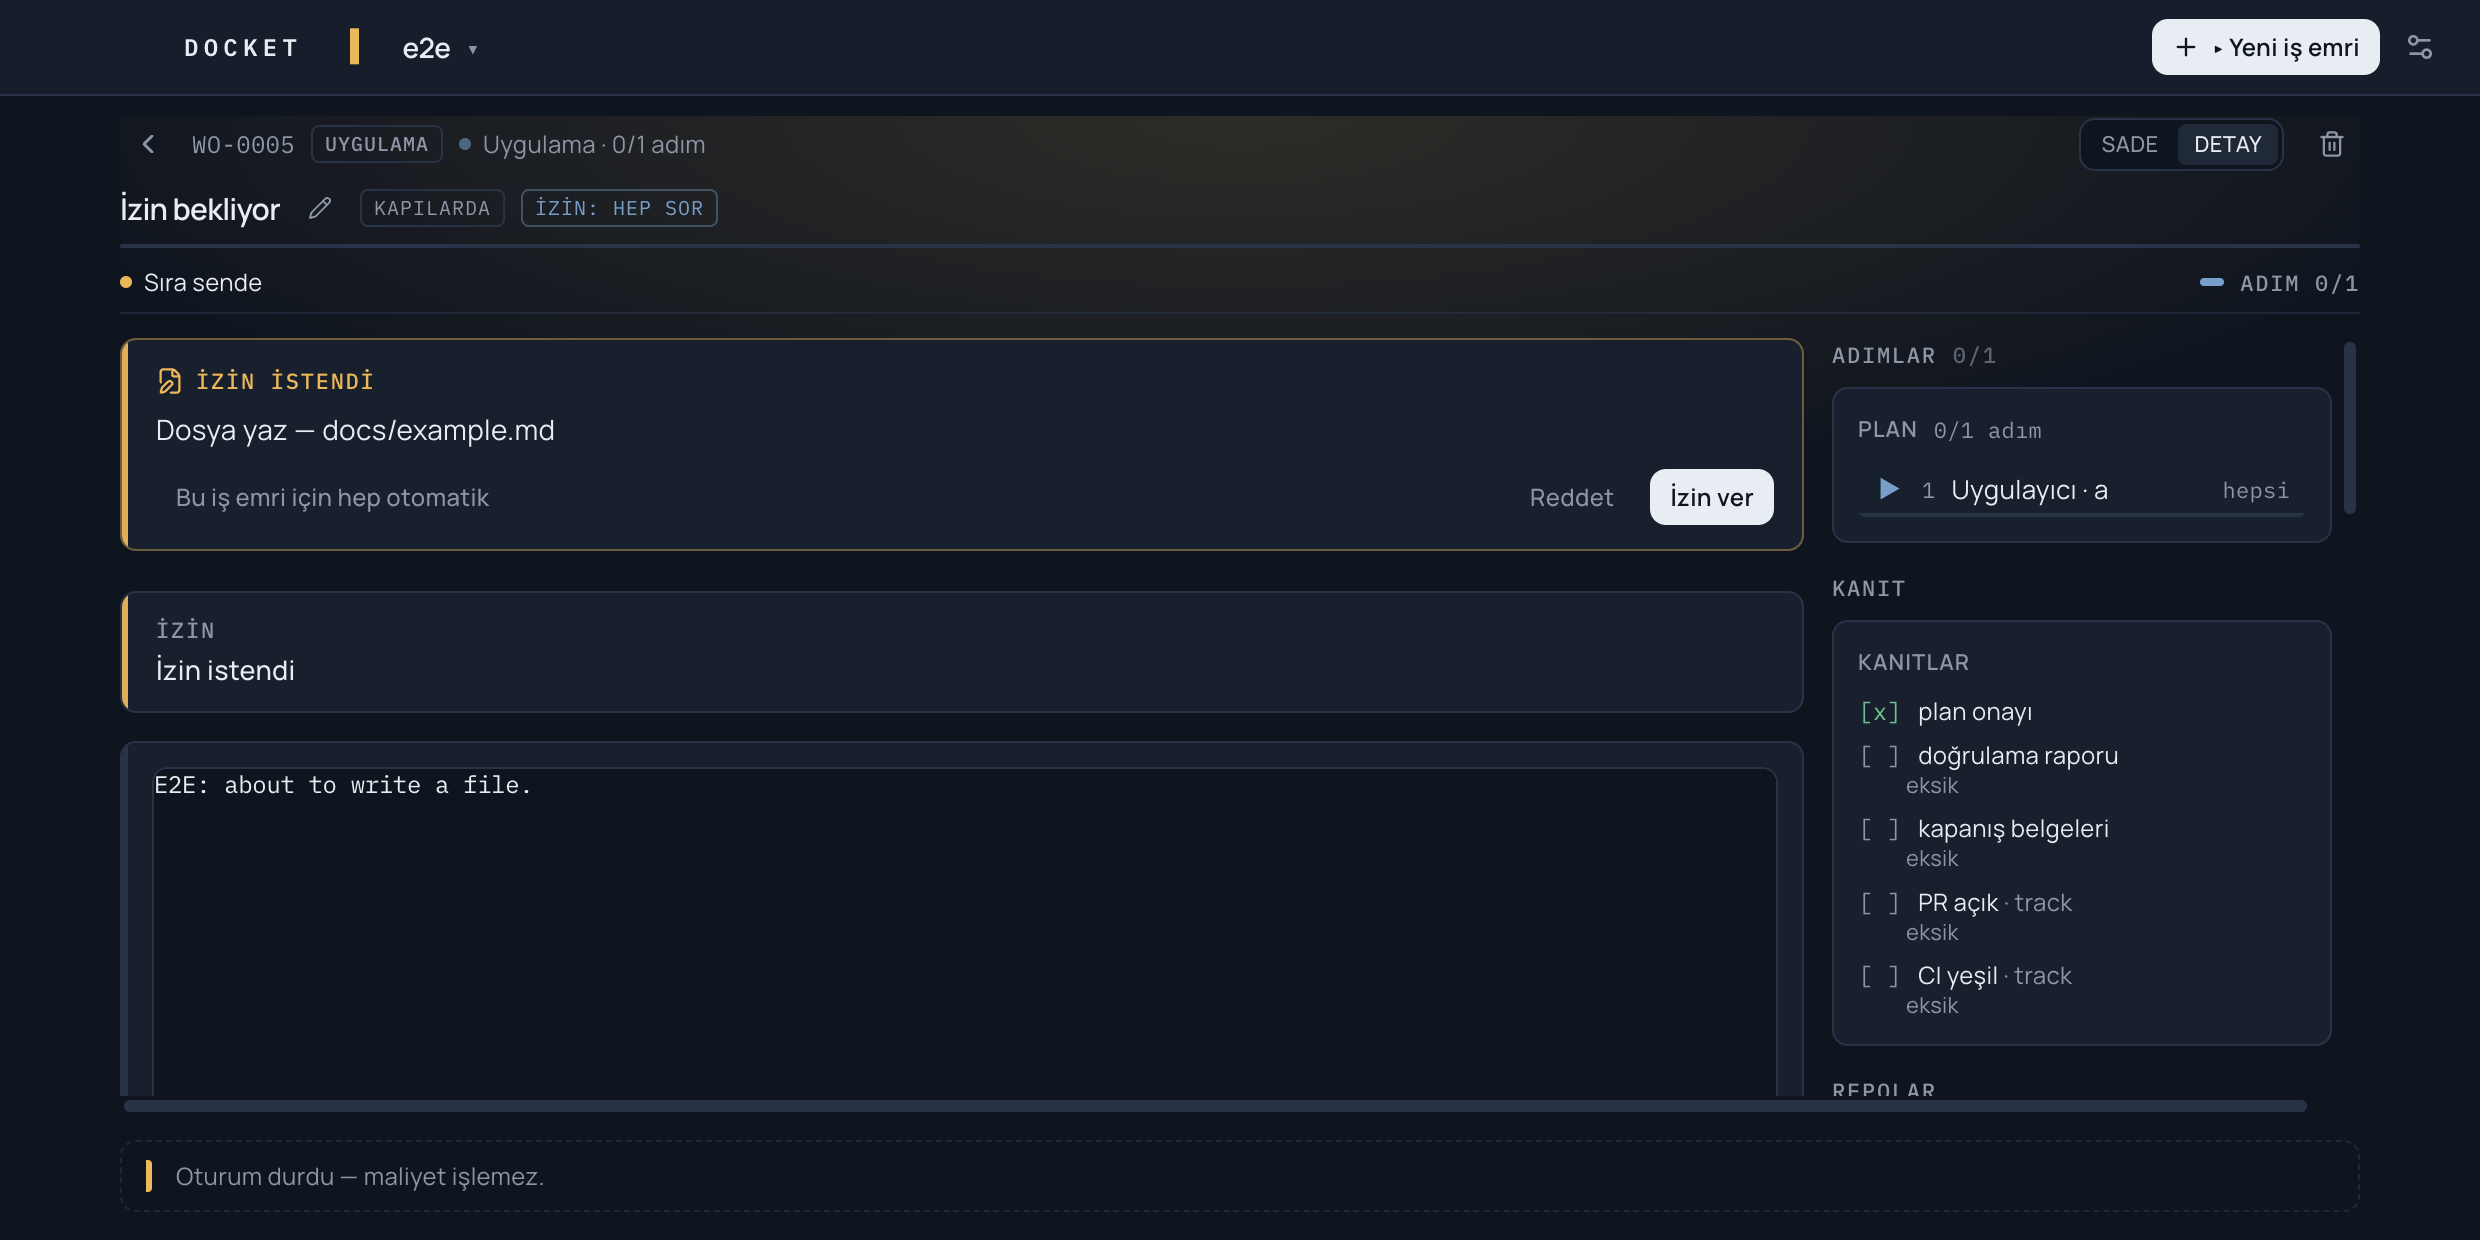
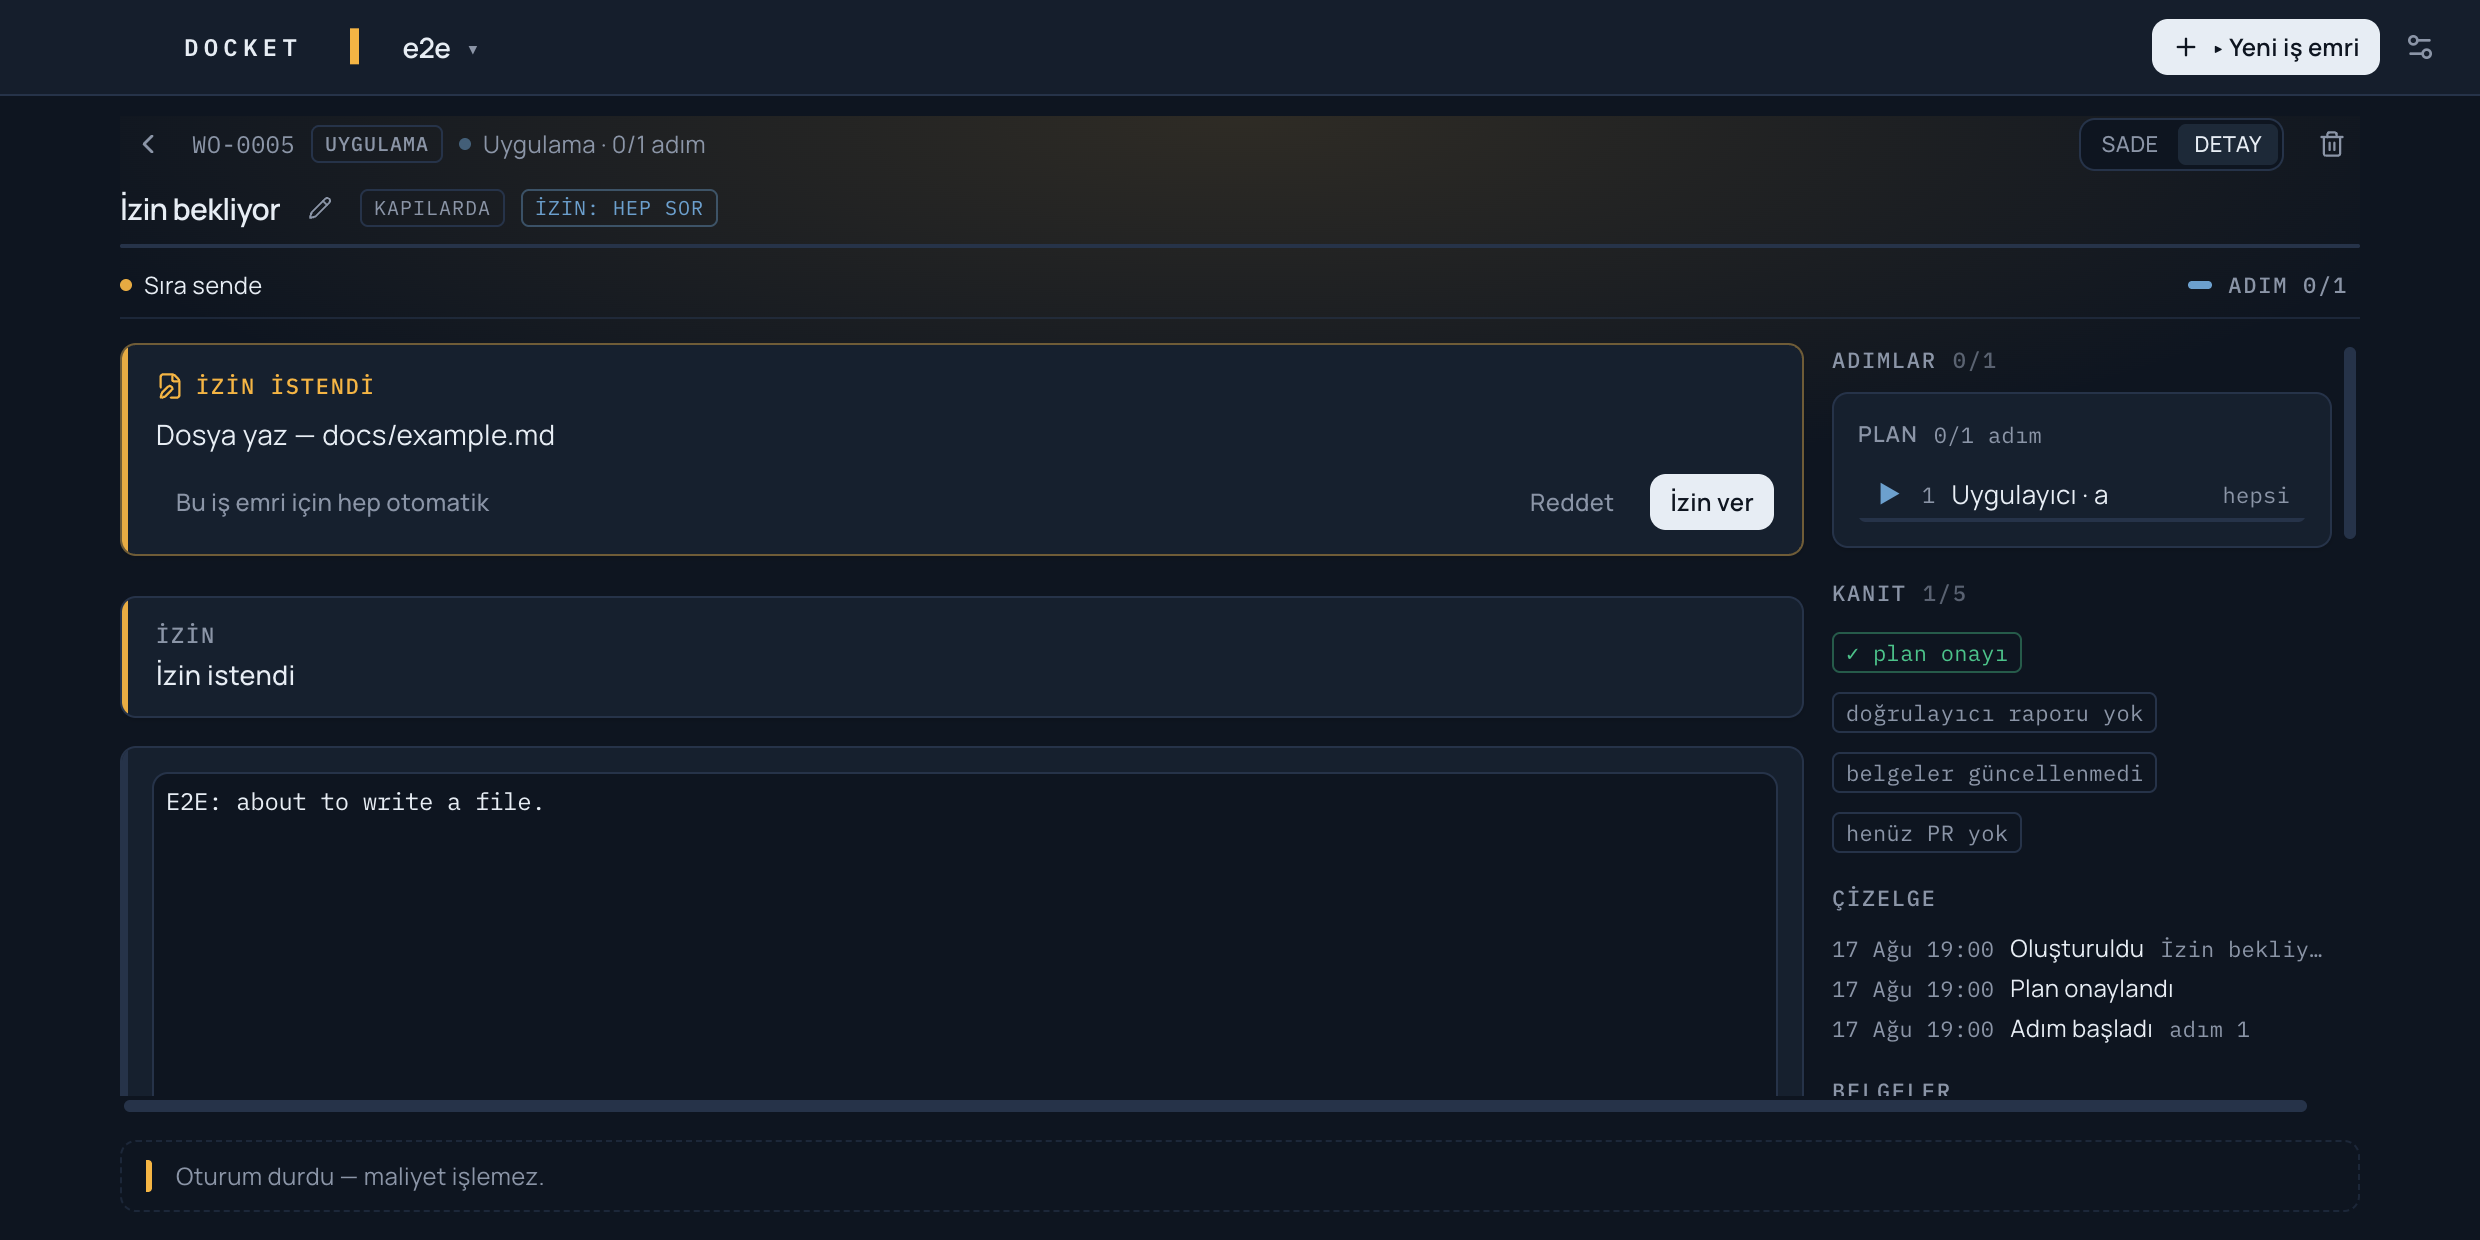
feat(WO-0031d): tur-2 e2e — platform board, Kanıt chips, tab hiding, N/T jump, Kapandı + short sha
Seed: a second workspace ('arşiv', shared decision store — dodges the TD-035
numbering collision) whose only WO is closed. New specs: the only-closed board
platform + open quiet list (no drawer); Kanıt n/total aside + chip texts (✓ plan
onayı / henüz PR yok / doğrulayıcı raporu yok, no bare 'eksik') + Repolar's
absence; the merged '✓ Depoda' chip after closing. Folds: DETAY tabs now assert
active-visible/inactive-hidden (the old spec was tautological), the closed WO
asserts the substrip 'Kapandı' + the ≤7-char sha, the segments spec drives the
jump (DETAY + Adımlar active). Five dead label exports purged (grep-proven).

diff --git a/src/ui/data/labels.ts b/src/ui/data/labels.ts
@@ -5,12 +5,10 @@ import type {
   AbsentReason,
   ActionIntent,
   BoardBucket,
-  BoardColumn,
   CardAction,
   CardActionKind,
   CardReason,
   EvidenceKind,
-  SessionRef,
   SessionRole,
   SourceKind,
   StepStatus,
@@ -26,29 +24,11 @@ import type { WoPhase } from '../../core/derive';
 import type { ProviderErrorCode } from '../../core/runner';
 
 // Eski 3-sütunlu tahta (BoardColumn) — uyumluluk için kalır; yeni tahta BUCKET_* kullanır.
-export const COLUMN_LABELS: Record<BoardColumn, string> = {
-  your_turn: 'Sıra sende',
-  running: 'Çalışıyor',
-  external: 'Harici',
-};
-
-export const COLUMN_HELP: Record<BoardColumn, string> = {
-  your_turn: 'Seni bekliyor',
-  running: 'Bir oturum çalışıyor',
-  external: 'Harici sistem bekleniyor',
-};
-
 // Yeni iki kovalı tahta (WO-0013).
 export const BUCKET_LABELS: Record<BoardBucket, string> = {
   up: 'Sıra sende',
   working: 'Çalışıyor',
   closed: 'Kapalı',
-};
-
-export const BUCKET_HELP: Record<BoardBucket, string> = {
-  up: 'Seni bekleyenler',
-  working: 'Bir oturum çalışıyor',
-  closed: 'Tamamlananlar',
 };
 
 export const ROLE_LABELS: Record<SessionRole, string> = {
@@ -137,13 +117,6 @@ export function cardActionText(a: CardAction): string {
 // AC1 (return-pass): track aşaması, oturum durumu, mod ve kaynak türü için görüntü eşlemeleri +
 // bunları tümceye çeviren besteciler. Bunlarla hiçbir bileşen bir kod tanımlayıcıyı `.replace` ile
 // arayüz metnine çevirmez; bir çevirmenin dokunacağı her kelime burada.
-export const SESSION_STATUS_LABELS: Record<SessionRef['status'], string> = {
-  running: 'Çalışıyor',
-  stopped_asking: 'İzin istiyor',
-  idle: 'Boşta',
-  none: 'Yok',
-};
-
 // Plan adımları (WO-0017). Durum etiketi + işaretçi (mock'taki ✓/►/○/⊘).
 export const STEP_STATUS_LABELS: Record<StepStatus, string> = {
   pending: 'Bekliyor',
@@ -240,10 +213,6 @@ export const SOURCE_KIND_LABELS: Record<SourceKind, string> = {
   roadmap: 'ROADMAP',
   contract: 'sözleşme',
 };
-
-export function needsText(kind: EvidenceKind): string {
-  return `${EVIDENCE_LABELS[kind]} gerekli`;
-}
 
 export function modeText(mode: 'plan' | 'direct'): string {
   return `${MODE_LABELS[mode]} modu`;

diff --git a/e2e/seed.ts b/e2e/seed.ts
@@ -131,4 +131,25 @@ store.recordSession({
   startedAt: new Date('2026-08-16T14:00:00Z').toISOString(),
 });
 
+// 6) tur-2 D1: a second workspace whose ONLY work order is closed — the "Bütün işler tamam"
+//    platform board. Shares ws1's decision store ON PURPOSE: numbering counts the store dir, so a
+//    shared store keeps the global WO-NNNN primary keys unique (a second store would collide — TD-035).
+const ws2 = await store.createWorkspace({
+  label: 'arşiv',
+  repos: [{ path: repo, remote: 'e2e-remote' }],
+  decisionStorePath: repo,
+});
+const wo6 = await store.createWorkOrder({
+  workspaceId: ws2.id,
+  title: 'Eski iş',
+  description: 'E2E: already closed — the only-closed board platform.',
+  trackRepos: ws2.repos,
+  reviewMode: 'gates',
+  contextFiles: [],
+});
+await store.approvePlan(wo6.id, '# E2E plan\n\n```steps\n[{"role":"implementer","aim":"a","scope":"all"}]\n```\n');
+store.recordStep(wo6.id, 1, { status: 'done', reportPath: 'reports/step-01-implementer.md' });
+store.recordStepVerdict(wo6.id, 1, 'proceed', 'ok');
+await store.closeWorkOrder(wo6.id, 'e2e closed long ago');
+
 console.log(`DB=${join(root, 'e2e.db')}`);

diff --git a/docs/work-orders/WO-0031d-faz-c-cila/order.md b/docs/work-orders/WO-0031d-faz-c-cila/order.md
@@ -129,3 +129,16 @@ stays open for retry) + an E2E assert that it does; all transition juice trimmed
 pulse, the flash window) with the lamp-breathe loops named as ADR-0012's ambient exemption; the
 reduced-motion block gains the Dialog rise (now a named class, not an arbitrary utility) and the
 interaction-class transitions. The review's remaining P2s are filed as TD-038.
+
+Tur-2 fixes (operator's second tour, all decisions embedded): A1 `TurnState` gains `done` (test-first)
+— a closed WO reads "Kapandı", never a false "Sıra sende"; A2 the kit TabsContent hides inactive
+panels (forceMount keeps them alive — the tab bar visually did nothing before); A3 the closure sha
+renders as 7 chars (full sha in title/aria, click copies); A4 the ```steps fence never renders raw —
+Belgeler shows prose + a role-chip card summary (`splitStepsFence`, core, test-first); A5 Terminal +
+markdown panel padding; A6 the edit dialog's description textarea is 5 rows; A7 the substrip `adım
+N/T` is a real jump (DETAY + Adımlar tab + scroll, controlled tab state). D1 a board with only closed
+WOs is the "Bütün işler tamam" platform (steady green dot, quiet cards OPEN, no drawer, no CTA). D2
+Kanıt becomes chips with a `n/total` aside — absence sentences instead of marks, repo-name suffixes,
+no panel box. D3 TrackLane + the Repolar section are deleted; the track state folds into Kanıt chips
+(✓ Depoda / PR açık · CI yeşil / henüz PR yok / CI muaf); the dead onClick-less 'Mergele' chip is
+gone. Five more grep-proven dead label exports purged with them.

diff --git a/docs/work-orders/WO-0025-test/plan.md b/docs/work-orders/WO-0025-test/plan.md
@@ -1,0 +1,8 @@
+WO-0025 "test" is an unfilled scaffold — its real objective is exercising the Docket loop (plan approval → step → merge) end-to-end, not shipping a feature. Approach: one doc-only implementer step confined to `docs/work-orders/WO-0025-test/` — fill the Context/Scope/Acceptance placeholders in `order.md`, commit the approved steps as `plan.md`, open the PR — then one architect step to verify evidence and hand the operator the merge decision. Key decisions: no changes under `src/` (nothing exists to build, keeps `full_auto` riskless); no verifier step (review: light); the `WO-0025` id collision with the already-merged provider/auth order is tolerated — this order stays isolated in its `-test` directory.
+
+```steps
+[
+  { "role": "implementer", "aim": "doc-only order fill + PR", "scope": "docket" },
+  { "role": "architect", "aim": "verify evidence, prep merge", "scope": "docket" }
+]
+```

diff --git a/docs/work-orders/WO-0025-test/order.md b/docs/work-orders/WO-0025-test/order.md
@@ -1,0 +1,47 @@
+---
+id: WO-0025
+title: test
+workspace: docket
+status: draft
+mode: plan
+review: light
+review_mode: gates
+permission_rule: full_auto
+tracks:
+  - repo: docket
+    depends_on: []
+---
+
+# WO-0025 — test
+
+## Objective
+
+test
+
+## Context
+
+- _(added during planning)_
+
+## Scope
+
+In scope:
+-
+
+Out of scope:
+-
+
+## Acceptance criteria
+
+1.
+
+## Evidence required
+
+- plan_approval: architect verdict, `plan.md` committed
+- pr_open: PR URL, head sha
+- ci_green: all required checks `success`
+- verification: verifier report, all `path:line` pointers resolve at head sha
+- closure: all tracks merged, `ROADMAP.md` + `docs/tech-debt.md` updated (commit sha)
+
+## Notes
+
+Created via Docket.
